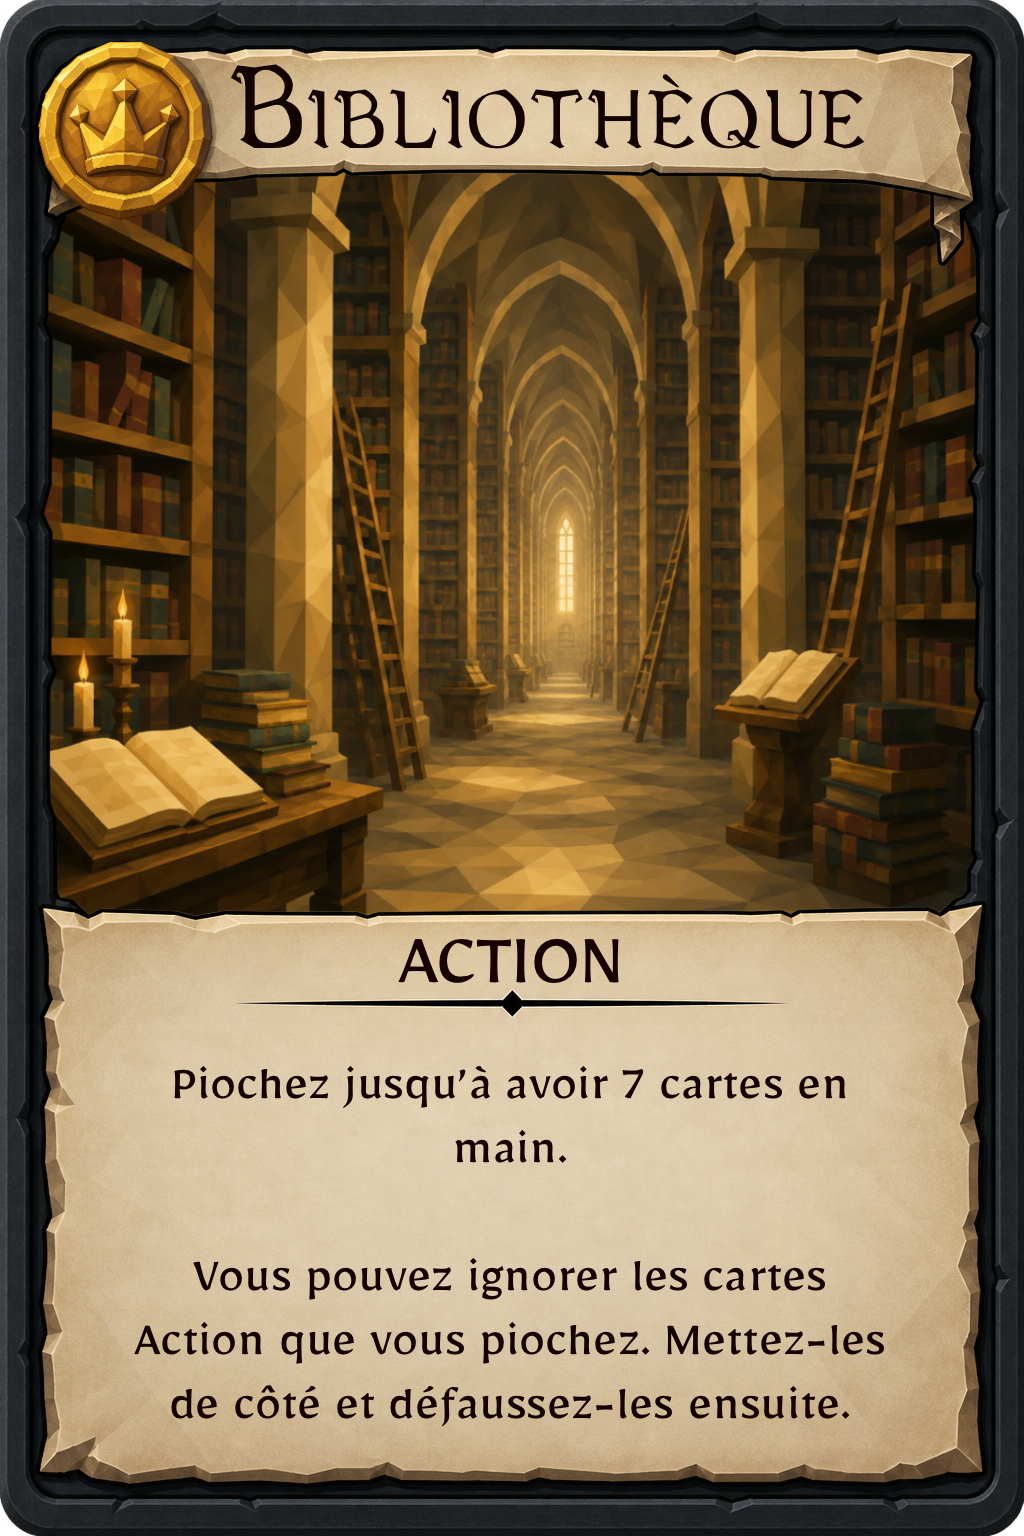
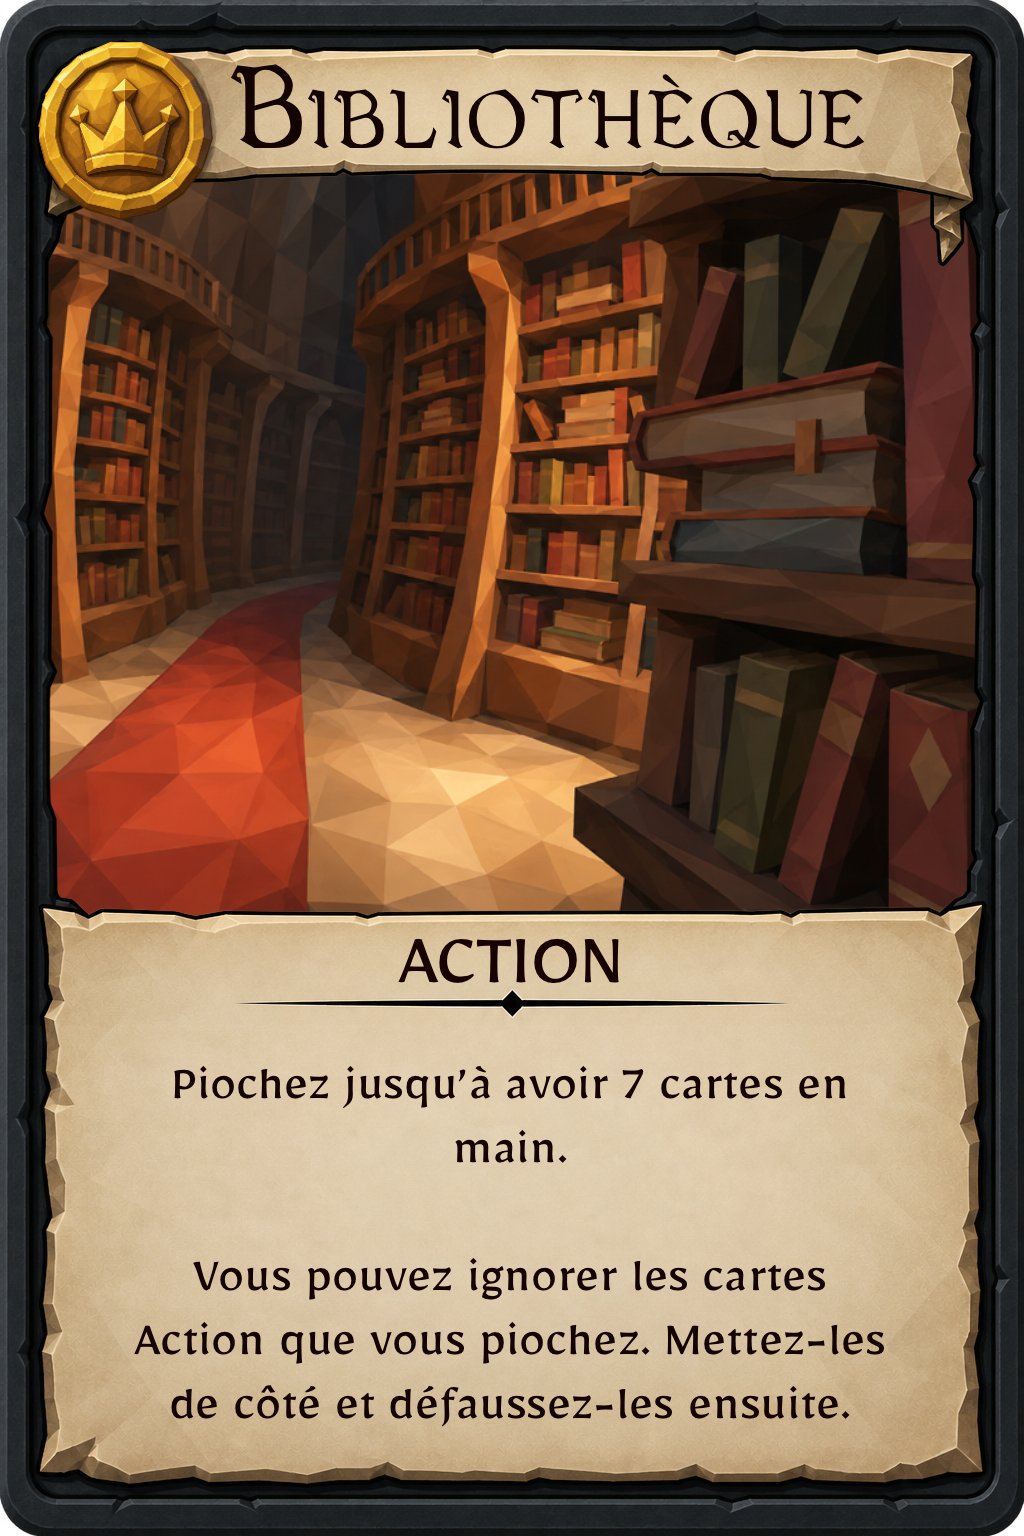
new artworks for cards

diff --git a/Dominion/Assets/Scripts/HUD/CardGainAnimationController.cs b/Dominion/Assets/Scripts/HUD/CardGainAnimationController.cs
@@ -158,7 +158,7 @@ public sealed class CardGainAnimationController : MonoBehaviour
             yield return null;
         }
 
-        yield return new WaitForSecondsRealtime(0.13f);
+        yield return new WaitForSecondsRealtime(0.4f);
 
         Vector3 startWorld = rect.position;
         Vector3 targetWorld = destination != null
